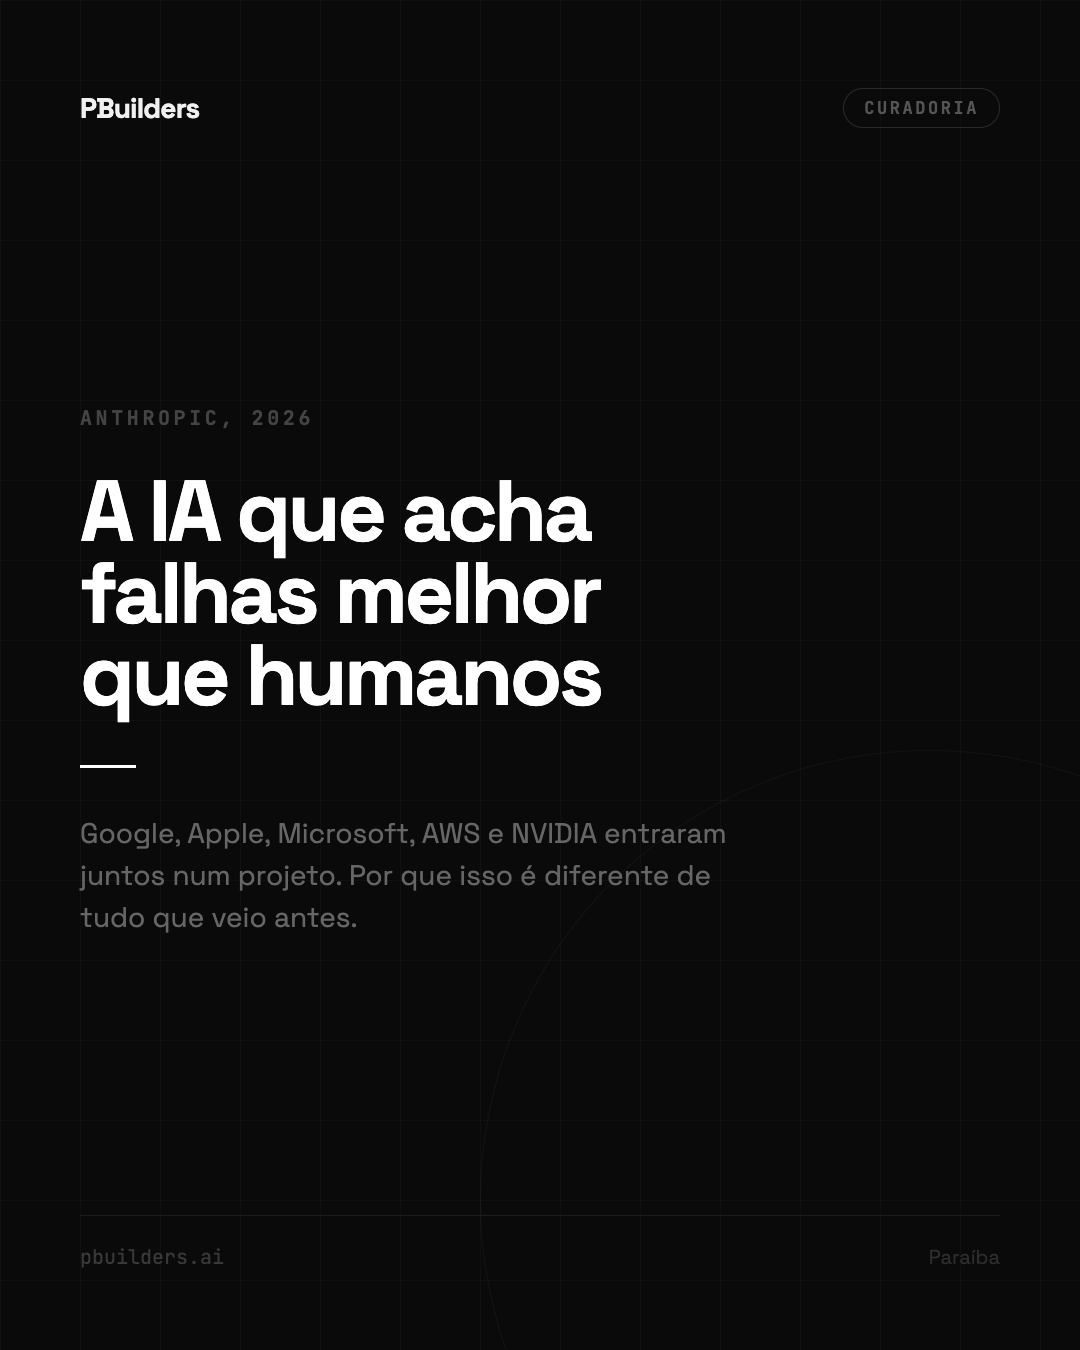
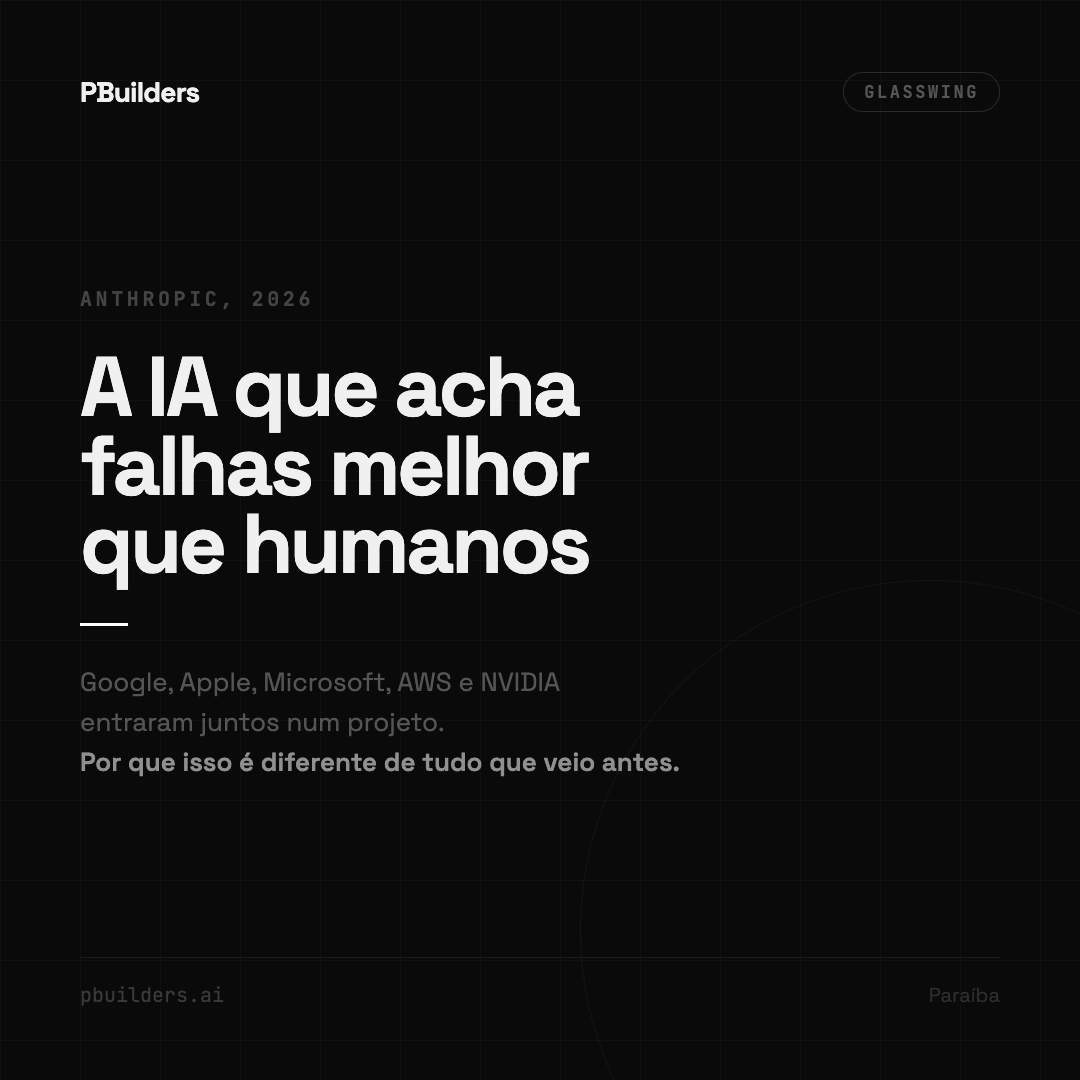
WhatsApp cover: formato quadrado 1080x1080 pra aparecer inteiro no preview

diff --git a/content/2026-04-07-glasswing/whatsapp-cover.html b/content/2026-04-07-glasswing/whatsapp-cover.html
@@ -1,0 +1,177 @@
+<!DOCTYPE html>
+<html lang="pt-BR">
+<head>
+  <meta charset="UTF-8">
+  <title>PBuilders — Glasswing WhatsApp Cover</title>
+  <link rel="preconnect" href="https://fonts.googleapis.com">
+  <link rel="preconnect" href="https://fonts.gstatic.com" crossorigin>
+  <link href="https://fonts.googleapis.com/css2?family=Space+Grotesk:wght@300;400;500;600;700&family=JetBrains+Mono:wght@400;700&display=swap" rel="stylesheet">
+  <style>
+    * { margin: 0; padding: 0; box-sizing: border-box; }
+
+    body {
+      background: #111;
+      display: flex;
+      align-items: center;
+      justify-content: center;
+      min-height: 100vh;
+      font-family: 'Space Grotesk', sans-serif;
+    }
+
+    .slide {
+      width: 1080px;
+      height: 1080px;
+      background: #0A0A0A;
+      position: relative;
+      overflow: hidden;
+      display: flex;
+      flex-direction: column;
+      justify-content: space-between;
+      padding: 72px 80px 72px;
+    }
+
+    .slide::before {
+      content: '';
+      position: absolute;
+      inset: 0;
+      background-image:
+        linear-gradient(rgba(255,255,255,0.022) 1px, transparent 1px),
+        linear-gradient(90deg, rgba(255,255,255,0.022) 1px, transparent 1px);
+      background-size: 80px 80px;
+      pointer-events: none;
+    }
+
+    .deco-circle {
+      position: absolute;
+      border-radius: 50%;
+      border: 1px solid rgba(255,255,255,0.04);
+      pointer-events: none;
+    }
+
+    .header {
+      display: flex;
+      align-items: center;
+      justify-content: space-between;
+      position: relative;
+      z-index: 1;
+    }
+
+    .logo-pb {
+      font-size: 28px;
+      font-weight: 700;
+      color: #F0F0F0;
+      letter-spacing: -0.03em;
+    }
+
+    .tag {
+      font-family: 'JetBrains Mono', monospace;
+      font-size: 17px;
+      font-weight: 700;
+      text-transform: uppercase;
+      letter-spacing: 0.15em;
+      color: #555;
+      border: 1px solid #2A2A2A;
+      padding: 8px 20px;
+      border-radius: 999px;
+    }
+
+    .body {
+      position: relative;
+      z-index: 1;
+      flex: 1;
+      display: flex;
+      flex-direction: column;
+      justify-content: center;
+    }
+
+    .eyebrow {
+      font-family: 'JetBrains Mono', monospace;
+      font-size: 20px;
+      font-weight: 700;
+      text-transform: uppercase;
+      letter-spacing: 0.18em;
+      color: #444;
+      margin-bottom: 36px;
+    }
+
+    .headline {
+      font-size: 84px;
+      font-weight: 700;
+      line-height: 0.93;
+      letter-spacing: -0.04em;
+      color: #F0F0F0;
+      margin-bottom: 40px;
+    }
+
+    .accent-line {
+      width: 48px;
+      height: 3px;
+      background: #fff;
+      margin-bottom: 36px;
+    }
+
+    .subline {
+      font-size: 26px;
+      font-weight: 400;
+      color: #555;
+      line-height: 1.55;
+    }
+
+    .subline strong {
+      color: #909090;
+      font-weight: 600;
+    }
+
+    .footer {
+      display: flex;
+      align-items: center;
+      justify-content: space-between;
+      position: relative;
+      z-index: 1;
+      border-top: 1px solid #1C1C1C;
+      padding-top: 24px;
+    }
+
+    .footer-url {
+      font-family: 'JetBrains Mono', monospace;
+      font-size: 20px;
+      color: #3A3A3A;
+    }
+
+    .footer-cg {
+      font-size: 20px;
+      color: #2E2E2E;
+    }
+  </style>
+</head>
+<body>
+
+  <div class="slide">
+    <div class="deco-circle" style="width:700px;height:700px;bottom:-200px;right:-200px;"></div>
+
+    <div class="header">
+      <div class="logo-pb">PBuilders</div>
+      <div class="tag">Glasswing</div>
+    </div>
+
+    <div class="body">
+      <div class="eyebrow">Anthropic, 2026</div>
+      <div class="headline">
+        A IA que acha<br>falhas melhor<br>que humanos
+      </div>
+      <div class="accent-line"></div>
+      <div class="subline">
+        Google, Apple, Microsoft, AWS e NVIDIA<br>
+        entraram juntos num projeto.<br>
+        <strong>Por que isso é diferente de tudo que veio antes.</strong>
+      </div>
+    </div>
+
+    <div class="footer">
+      <div class="footer-url">pbuilders.ai</div>
+      <div class="footer-cg">Paraíba</div>
+    </div>
+  </div>
+
+</body>
+</html>

diff --git a/content/README.md b/content/README.md
@@ -10,7 +10,7 @@
 
 **Headlines de carrossel não levam ponto final.** Títulos grandes não precisam de pontuação — o peso visual já encerra a frase.
 
-**Todo tema com carrossel deve ter um `whatsapp-cover.png`.** É a imagem enviada junto com o post no WhatsApp. Por padrão, é uma cópia do primeiro slide do carrossel (`instagram-carousel-01.png`). Se o conteúdo justificar uma imagem diferente, criar `whatsapp-cover.html` e exportar separado. Gerar com: `cp instagram-carousel-01.png whatsapp-cover.png`.
+**Todo tema com carrossel deve ter um `whatsapp-cover.png`.** É a imagem enviada junto com o post no WhatsApp. Deve ser **sempre quadrada (1080×1080)** — imagens mais altas são clipadas pelo WhatsApp e o usuário precisa abrir pra ver o conteúdo. Criar sempre um `whatsapp-cover.html` dedicado com `height: 1080px` e renderizar separado com `render.py`.
 
 ---
 
